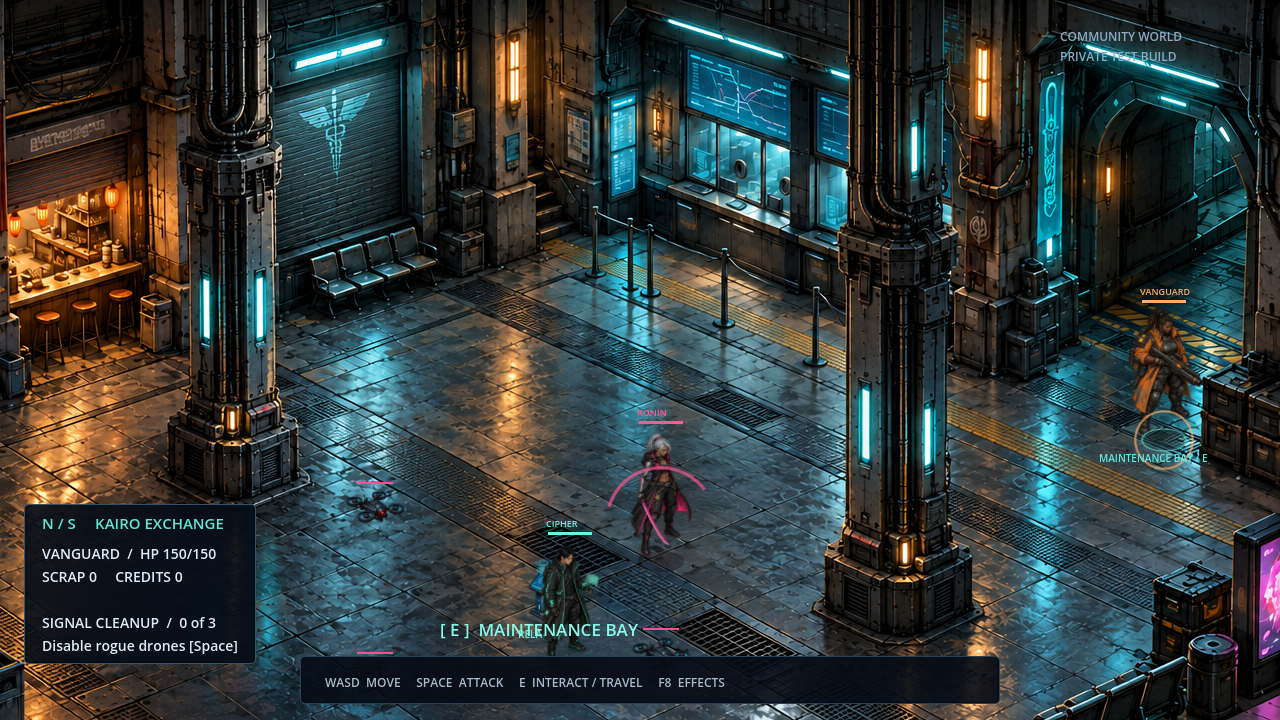
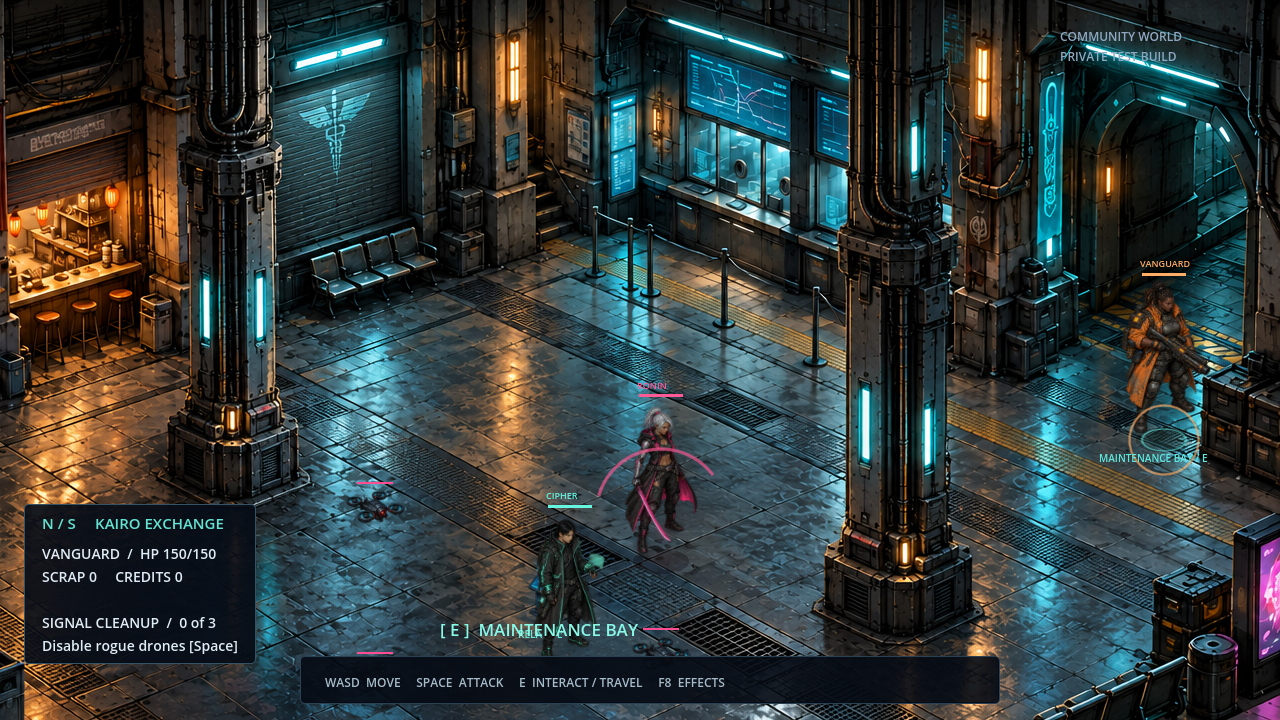
Enlarge characters another twenty percent to 164.4 pixels

Changed region(s): [[0.4062, 0.5194, 0.5625, 0.9167], [0.875, 0.3667, 0.9688, 0.6722]]

diff --git a/docs/screenshots/README.md b/docs/screenshots/README.md
@@ -4,7 +4,7 @@ The active areas are **Kairo Exchange and its connected Maintenance Bay**, with 
 
 These are actual Godot renders with dynamic game actors. They are staged visual captures; real multiplayer combat and persistence were tested separately.
 
-Characters are now **another 20% larger** (137 pixels tall), with matching foot shadows and selection rings, raised labels, and adjusted column fading. These previews show the updated scale in both rooms.
+Characters are now **another 20% larger** (164.4 pixels tall), with matching foot shadows and selection rings, raised labels, and adjusted column fading. These previews show the updated scale in both rooms.
 
 ## Maintenance Bay
 
